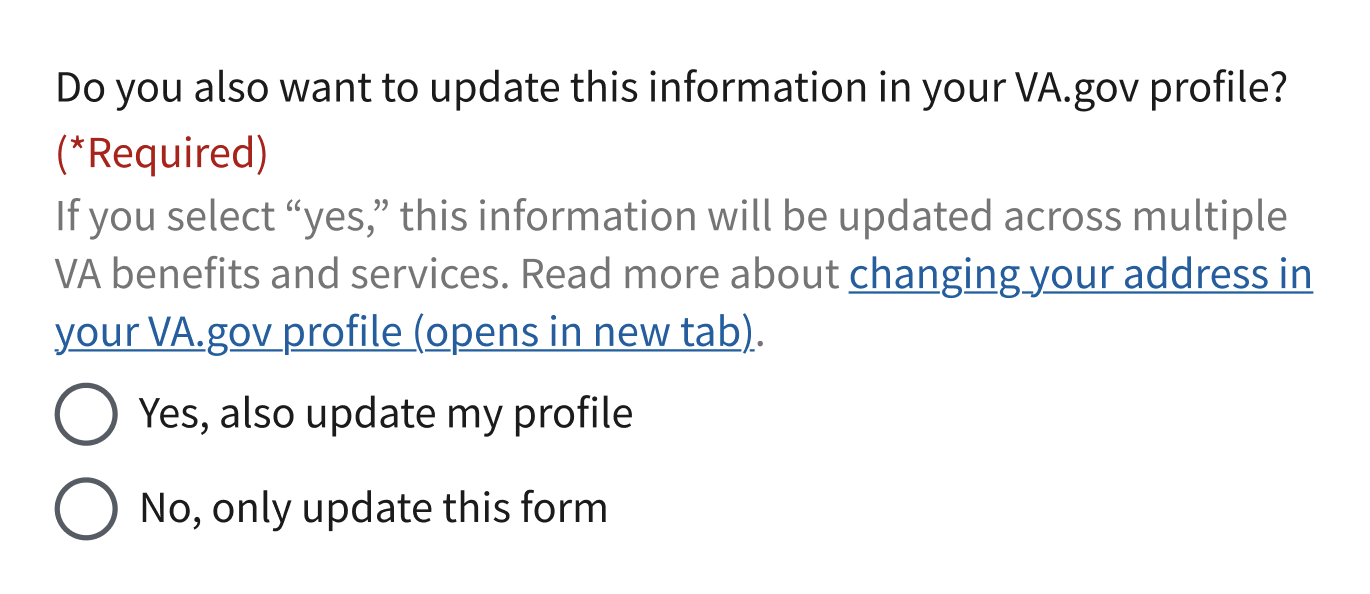
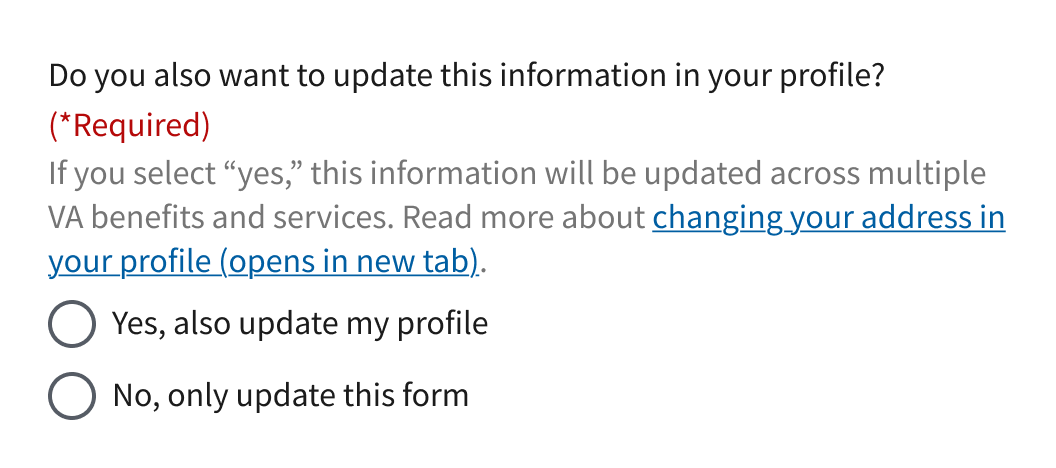
update screenshots and links

diff --git a/src/_patterns/help-users-to/update-prefilled-information.md b/src/_patterns/help-users-to/update-prefilled-information.md
@@ -144,6 +144,9 @@ In cases where the information might change frequently (like a temporary mailing
 
 {% include component-example.html class="x2" alt="A required radio button field asking the user if they also want to update this information in their profile." file="/images/patterns/help-users-to/update-prefilled-information/radio-button.png" %}
 
+### Example within a mock form
+An example of the prefill pattern can be found in the [Forms library mock form on staging](https://staging.va.gov/mock-form-prefill/introduction). Sign in with any staging user.
+
 ## Code usage
 
 Code for the [prefill pattern](https://github.com/department-of-veterans-affairs/vets-website/tree/main/src/platform/forms-system/src/js/patterns/prefill) can be found in the Forms library.

diff --git a/src/_patterns/help-users-to/know-when-their-information-is-prefilled.md b/src/_patterns/help-users-to/know-when-their-information-is-prefilled.md
@@ -81,7 +81,7 @@ Here’s how to communicate that people can’t update certain information onlin
 ### Uneditable prefill card
 ![Uneditable prefill card]({{site.baseurl}}/images/patterns/help-users-to/know-when-their-information-is-prefilled/Uneditable-prefill-card.png)
 
-### Example within a mock form flow
+### Example within a mock form
 An example of the prefill pattern can be found in the [Forms library mock form on staging](https://staging.va.gov/mock-form-prefill/introduction). Sign in with any staging user.
 
 ## Code Usage
